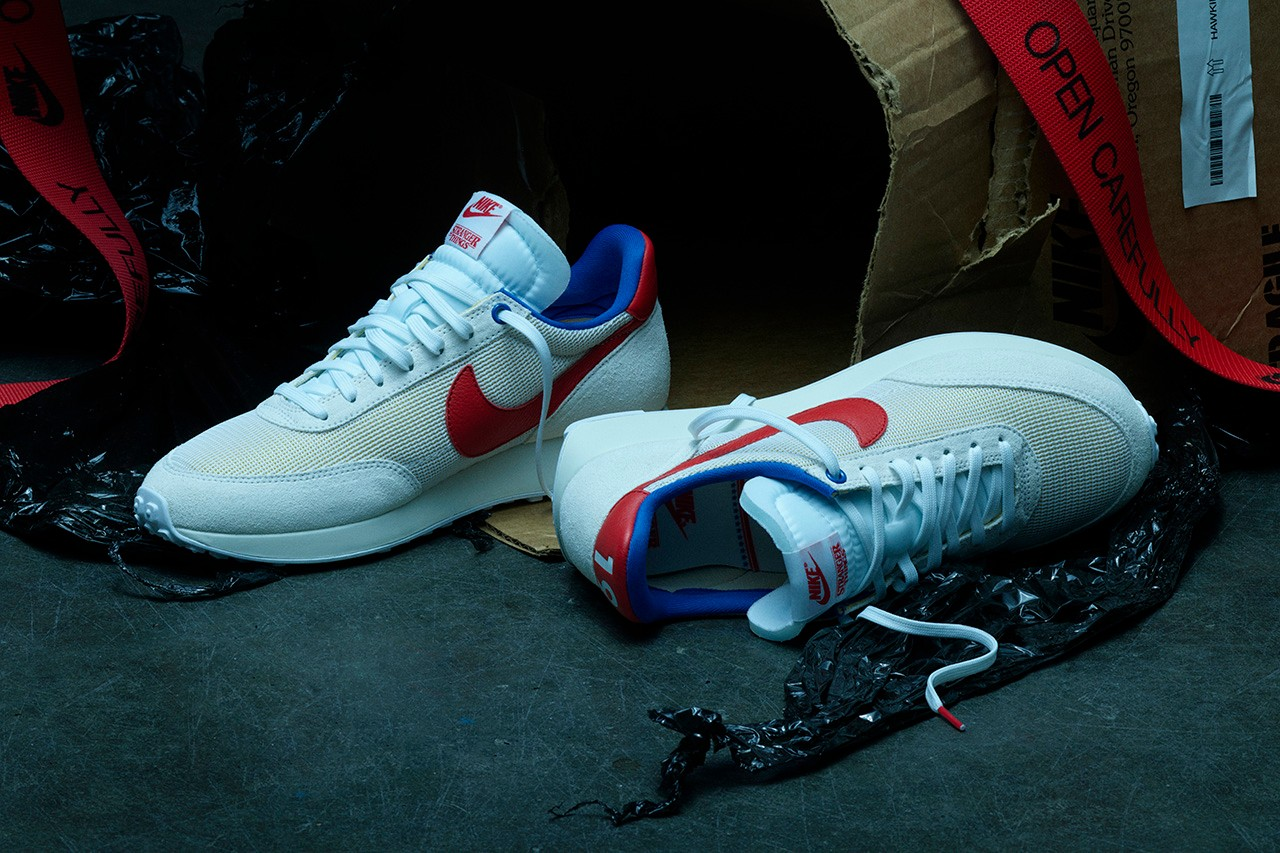
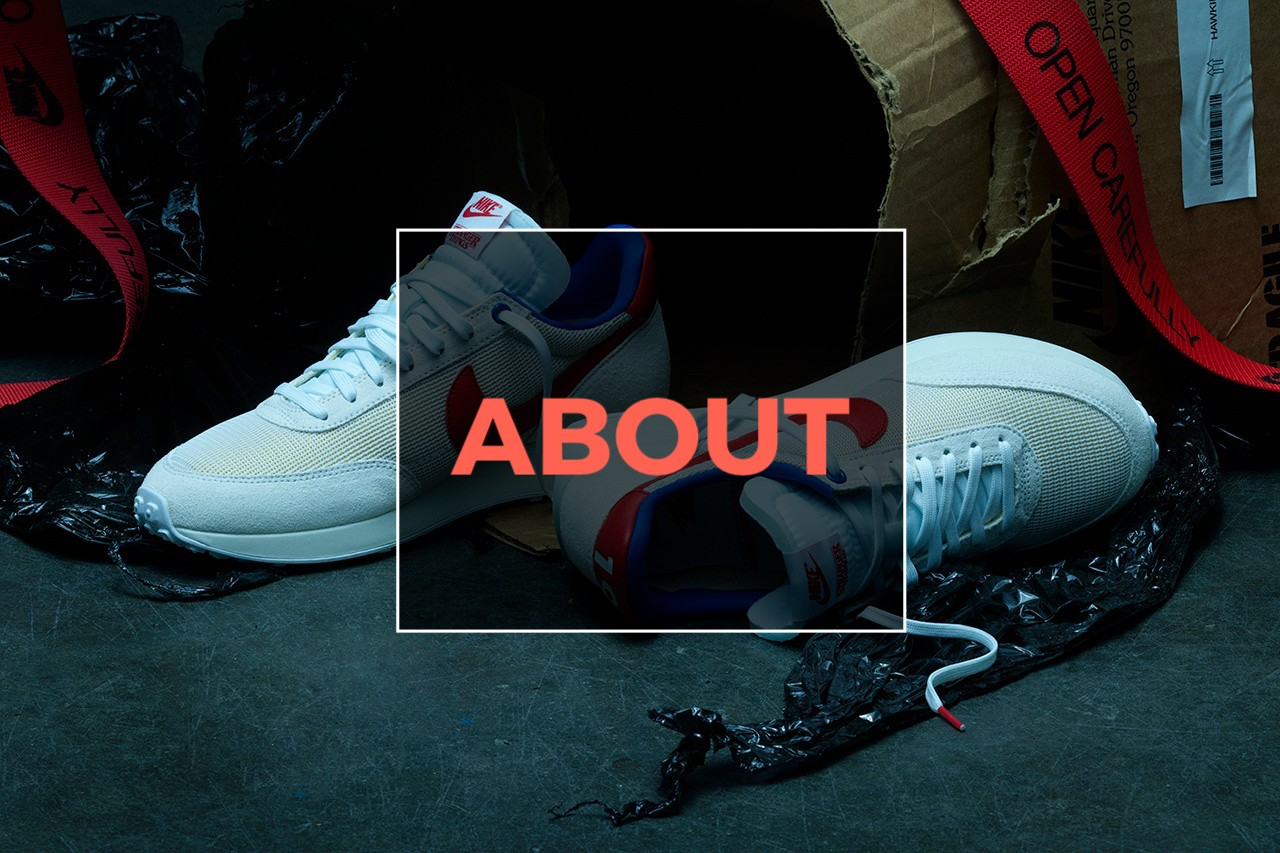
updated thankyou img in about and css class

Changed region(s): [[0.2812, 0.2438, 0.7188, 0.762]]

diff --git a/client/components/about.jsx b/client/components/about.jsx
@@ -13,9 +13,10 @@ export default class About extends React.Component {
   render() {
     return (
       <React.Fragment>
-        <Container className="mt-2 mb-2">
+        <img className="banner-image" src="./media/thankyou.jpg" alt="Thank you banner image"/>
+        <Container className="mt-3 mb-5">
           <Row>
-            <Col sm={{ size: 8, offset: 2 }} className="mb-2">
+            <Col sm={{ size: 8, offset: 2 }} className="mb-3">
               <div className="border border-secondary rounded p-2">
                 <div className="h1 card-font">Me.</div>
                 <hr/>
@@ -28,9 +29,8 @@ export default class About extends React.Component {
               </div>
             </Col>
           </Row>
-          <button type="button" className="btn btn-lg btn-warning btn-block card-font" onClick={this.handleCatalogView}><i className="fas fa-shoe-prints fa-lg pointer-hover"></i>CATALOG</button>
+          <button type="button" className="btn btn-lg btn-warning btn-block card-font" onClick={this.handleCatalogView}><i className="fas fa-shoe-prints fa-lg pointer-hover"></i> CATALOG</button>
         </Container>
-        <img className="thankyou-image mt-2" src="./media/thankyou.jpg" alt="Thank you banner image"/>
       </React.Fragment>
     );
   }

diff --git a/server/public/style.css b/server/public/style.css
@@ -41,7 +41,7 @@
   background-color: orangered;
   border-radius: 10%;
 }
-.thankyou-image {
+.banner-image {
   display: block;
   margin: auto;
   width: 100%;
